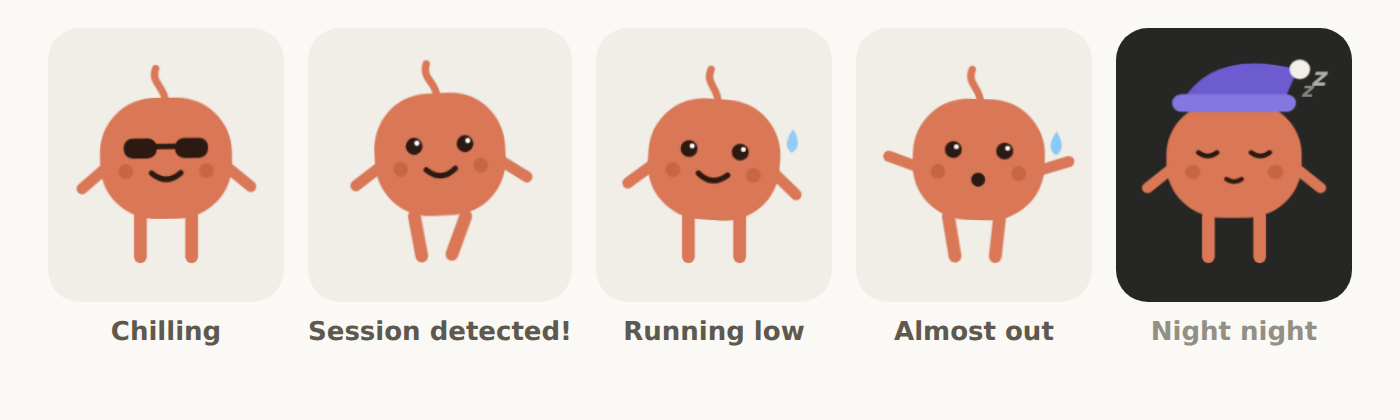
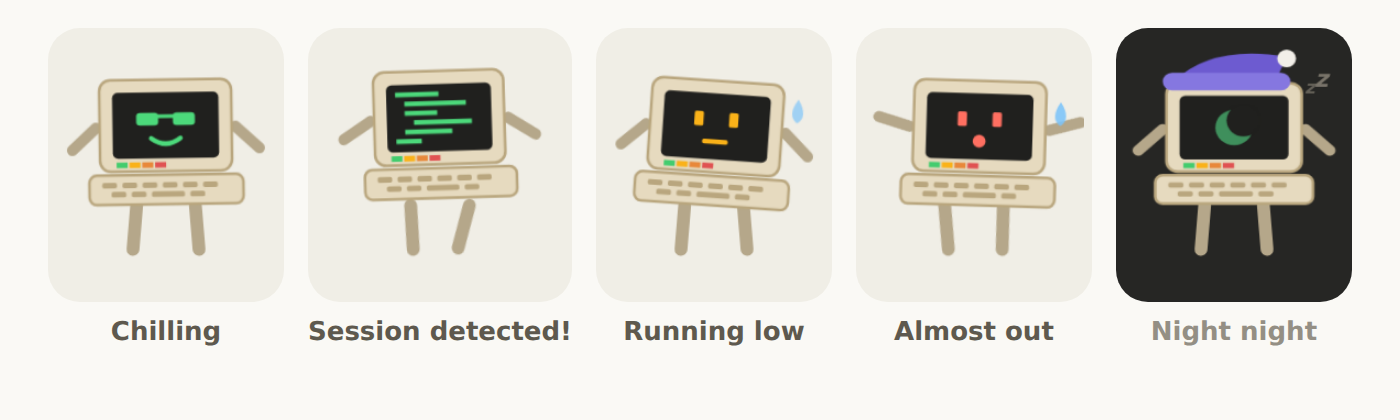
Redesign Pip as a retro computer that dances, codes, and sleeps
Pip is now a beige retro machine (CRT monitor + keyboard wedge with a
rainbow stripe chip) whose screen carries the expression: green
phosphor face normally, sunglasses screensaver when idle, typing code
lines with a blinking cursor while dancing during an active session,
amber flat-mouth when running low, red o-mouth when almost out, and a
crescent moon under a nightcap at night. Screen color is driven by a
single --phos CSS variable per mood. Screenshots regenerated.

Claude-Session: https://claude.ai/code/session_01QXLb7tKiL1U64pKbud6Y9g

diff --git a/app/web/index.html b/app/web/index.html
@@ -11,58 +11,93 @@
 <main class="wrap">
 
   <header class="top">
-    <!-- Pip: ClaudeTrackerPi's own little mascot -->
+    <!-- Pip: a little retro computer (dances, codes, sleeps) -->
     <div id="mascot" class="mascot mood-happy" aria-hidden="true">
       <svg viewBox="0 0 120 132" width="100" height="110">
-        <g class="m-legs" stroke="#d97757" stroke-width="7" stroke-linecap="round">
-          <line class="m-leg-l" x1="46" y1="94" x2="46" y2="116"/>
-          <line class="m-leg-r" x1="74" y1="94" x2="74" y2="116"/>
+        <defs>
+          <clipPath id="screen-clip">
+            <rect x="31" y="27" width="58" height="36" rx="3"/>
+          </clipPath>
+        </defs>
+        <g class="m-legs" stroke="#b5a78a" stroke-width="7" stroke-linecap="round">
+          <line class="m-leg-l" x1="44" y1="88" x2="42" y2="112"/>
+          <line class="m-leg-r" x1="76" y1="88" x2="78" y2="112"/>
         </g>
         <g class="m-body">
-          <path class="m-antenna" d="M60 32 C60 24 52 22 55 14" fill="none"
-                stroke="#d97757" stroke-width="4" stroke-linecap="round"/>
-          <rect x="24" y="30" width="72" height="66" rx="30" fill="#d97757"/>
-          <g class="m-arms" stroke="#d97757" stroke-width="6" stroke-linecap="round">
-            <line class="m-arm-l" x1="27" y1="68" x2="14" y2="79"/>
-            <line class="m-arm-r" x1="93" y1="68" x2="106" y2="79"/>
+          <g class="m-arms" stroke="#b5a78a" stroke-width="6" stroke-linecap="round">
+            <line class="m-arm-l" x1="22" y1="46" x2="9" y2="58"/>
+            <line class="m-arm-r" x1="98" y1="46" x2="111" y2="58"/>
+          </g>
+          <!-- monitor -->
+          <rect x="24" y="20" width="72" height="50" rx="6"
+                fill="#e6dabf" stroke="#b9a67e" stroke-width="1.5"/>
+          <rect x="31" y="27" width="58" height="36" rx="3" fill="#20201e"/>
+          <!-- rainbow stripe chip -->
+          <g>
+            <rect x="33" y="65" width="6" height="3" fill="#43cc6e"/>
+            <rect x="40" y="65" width="6" height="3" fill="#fab219"/>
+            <rect x="47" y="65" width="6" height="3" fill="#e8883a"/>
+            <rect x="54" y="65" width="6" height="3" fill="#e05252"/>
+          </g>
+          <!-- keyboard base -->
+          <rect x="18" y="72" width="84" height="16" rx="4"
+                fill="#e6dabf" stroke="#b9a67e" stroke-width="1.5"/>
+          <g fill="#b9a67e">
+            <rect x="25" y="76" width="8" height="3" rx="1"/>
+            <rect x="36" y="76" width="8" height="3" rx="1"/>
+            <rect x="47" y="76" width="8" height="3" rx="1"/>
+            <rect x="58" y="76" width="8" height="3" rx="1"/>
+            <rect x="69" y="76" width="8" height="3" rx="1"/>
+            <rect x="80" y="76" width="8" height="3" rx="1"/>
+            <rect x="30" y="81" width="8" height="3" rx="1"/>
+            <rect x="41" y="81" width="8" height="3" rx="1"/>
+            <rect x="52" y="81" width="18" height="3" rx="1"/>
+            <rect x="73" y="81" width="8" height="3" rx="1"/>
+          </g>
+          <!-- screen content (green phosphor; amber/red via mood) -->
+          <g clip-path="url(#screen-clip)">
+            <g class="m-face">
+              <g class="m-eyes-open m-phos">
+                <rect x="48" y="37" width="5" height="8" rx="1"/>
+                <rect x="67" y="37" width="5" height="8" rx="1"/>
+              </g>
+              <g class="m-shades m-phos">
+                <rect x="44" y="38" width="12" height="7" rx="2"/>
+                <rect x="64" y="38" width="12" height="7" rx="2"/>
+                <rect x="55" y="39" width="10" height="2"/>
+              </g>
+              <path class="m-mouth-smile m-phos-s" d="M52 52 Q60 58 68 52"
+                    fill="none" stroke-width="2.5" stroke-linecap="round"/>
+              <rect class="m-mouth-flat m-phos" x="53" y="52" width="14"
+                    height="2.5" rx="1"/>
+              <circle class="m-mouth-o m-phos" cx="60" cy="53" r="3.5"/>
+            </g>
+            <g class="m-code m-phos">
+              <rect class="m-line m-l1" x="36" y="31" width="24" height="2.5"/>
+              <rect class="m-line m-l2" x="41" y="36" width="34" height="2.5"/>
+              <rect class="m-line m-l3" x="41" y="41" width="18" height="2.5"/>
+              <rect class="m-line m-l4" x="46" y="46" width="32" height="2.5"/>
+              <rect class="m-line m-l5" x="41" y="51" width="26" height="2.5"/>
+              <rect class="m-line m-l6" x="36" y="56" width="14" height="2.5"/>
+              <rect class="m-cursor" x="53" y="56" width="5" height="3"/>
+            </g>
+            <g class="m-moon">
+              <circle cx="60" cy="45" r="10" fill="#3f8f5c"/>
+              <circle cx="65" cy="41" r="9" fill="#20201e"/>
+            </g>
           </g>
           <g class="m-cap">
-            <path d="M32 31 Q48 0 94 12 L86 31 Z" fill="#6d5bd0"/>
-            <circle cx="95" cy="12" r="5.5" fill="#f2efe9"/>
-            <rect x="27" y="26" width="66" height="10" rx="5" fill="#8577e0"/>
+            <path d="M28 19 Q48 -2 88 5 L82 19 Z" fill="#6d5bd0"/>
+            <circle cx="88" cy="6" r="5" fill="#f2efe9"/>
+            <rect x="22" y="14" width="68" height="10" rx="5" fill="#8577e0"/>
           </g>
-          <g class="m-face">
-            <g class="m-eyes-open">
-              <circle cx="46" cy="58" r="4.6" fill="#2c1a12"/>
-              <circle cx="74" cy="58" r="4.6" fill="#2c1a12"/>
-              <circle cx="47.6" cy="56.4" r="1.4" fill="#fff"/>
-              <circle cx="75.6" cy="56.4" r="1.4" fill="#fff"/>
-            </g>
-            <g class="m-eyes-closed" fill="none" stroke="#2c1a12"
-               stroke-width="2.5" stroke-linecap="round">
-              <path d="M41 59 Q46 63 51 59"/>
-              <path d="M69 59 Q74 63 79 59"/>
-            </g>
-            <g class="m-shades" fill="#2c1a12">
-              <rect x="37" y="52" width="18" height="11" rx="5"/>
-              <rect x="65" y="52" width="18" height="11" rx="5"/>
-              <rect x="53" y="55" width="14" height="3" rx="1.5"/>
-            </g>
-            <circle cx="38" cy="70" r="4" fill="#b4552e" opacity="0.5"/>
-            <circle cx="82" cy="70" r="4" fill="#b4552e" opacity="0.5"/>
-            <path class="m-mouth-smile" d="M52 71 Q60 78 68 71" fill="none"
-                  stroke="#2c1a12" stroke-width="3" stroke-linecap="round"/>
-            <circle class="m-mouth-o" cx="60" cy="74" r="3.8" fill="#2c1a12"/>
-            <path class="m-mouth-sleep" d="M56 74 Q60 77 64 74" fill="none"
-                  stroke="#2c1a12" stroke-width="2.5" stroke-linecap="round"/>
-          </g>
-          <path class="m-sweat" d="M102 42 q6 9 0 13 q-6 -4 0 -13" fill="#7cc4fa"/>
+          <path class="m-sweat" d="M104 26 q6 9 0 13 q-6 -4 0 -13" fill="#7cc4fa"/>
         </g>
-        <g class="m-zzz" fill="#c3c2b7" font-family="system-ui, sans-serif"
+        <g class="m-zzz" fill="#8a8478" font-family="system-ui, sans-serif"
            font-weight="700" font-style="italic">
-          <text class="m-z m-z1" x="94" y="36" font-size="11">z</text>
-          <text class="m-z m-z2" x="101" y="25" font-size="14">z</text>
-          <text class="m-z m-z3" x="109" y="14" font-size="17">z</text>
+          <text class="m-z m-z1" x="96" y="34" font-size="10">z</text>
+          <text class="m-z m-z2" x="103" y="26" font-size="13">z</text>
+          <text class="m-z m-z3" x="110" y="19" font-size="15">z</text>
         </g>
       </svg>
     </div>

diff --git a/app/web/style.css b/app/web/style.css
@@ -209,33 +209,50 @@ body {
 
 /* ---------- mascot ---------- */
 
-.mascot { flex: none; line-height: 0; }
+.mascot { flex: none; line-height: 0; --phos: #4cd97b; }
 
-.m-body { transform-origin: 60px 63px; }
-.m-arm-l { transform-origin: 27px 68px; }
-.m-arm-r { transform-origin: 93px 68px; }
-.m-leg-l { transform-origin: 46px 94px; }
-.m-leg-r { transform-origin: 74px 94px; }
-.m-sweat, .m-mouth-o, .m-mouth-sleep, .m-eyes-closed, .m-cap, .m-z,
-.m-shades { opacity: 0; }
+.m-body { transform-origin: 60px 60px; }
+.m-arm-l { transform-origin: 22px 46px; }
+.m-arm-r { transform-origin: 98px 46px; }
+.m-leg-l { transform-origin: 44px 88px; }
+.m-leg-r { transform-origin: 76px 88px; }
 
-/* chill (no session running): sunglasses, slow groove */
+/* everything on the screen glows in the current phosphor color */
+.m-phos { fill: var(--phos); }
+.m-phos-s { stroke: var(--phos); }
+.m-sweat, .m-mouth-o, .m-mouth-flat, .m-shades, .m-cap, .m-z,
+.m-code, .m-moon { opacity: 0; }
+
+/* chill (no session running): sunglasses screensaver, slow groove */
 .mood-chill .m-body   { animation: groove 4s ease-in-out infinite; }
 .mood-chill .m-shades { opacity: 1; }
 .mood-chill .m-eyes-open { opacity: 0; }
 
-/* happy (session detected): full dance */
+/* happy (session detected): dances while code types across the screen */
 .mood-happy .m-body   { animation: bounce 0.9s ease-in-out infinite; }
 .mood-happy .m-arm-l  { animation: wave-l 0.9s ease-in-out infinite; }
 .mood-happy .m-arm-r  { animation: wave-r 0.9s ease-in-out infinite; }
 .mood-happy .m-leg-l  { animation: kick-l 0.9s ease-in-out infinite; }
 .mood-happy .m-leg-r  { animation: kick-r 0.9s ease-in-out infinite; }
+.mood-happy .m-face   { opacity: 0; }
+.mood-happy .m-code   { opacity: 1; }
+.mood-happy .m-line   { animation: typing 3.2s linear infinite; }
+.mood-happy .m-l2 { animation-delay: 0.4s; }
+.mood-happy .m-l3 { animation-delay: 0.8s; }
+.mood-happy .m-l4 { animation-delay: 1.2s; }
+.mood-happy .m-l5 { animation-delay: 1.6s; }
+.mood-happy .m-l6 { animation-delay: 2.0s; }
+.mood-happy .m-cursor { animation: cursorblink 1s steps(1) infinite; }
 
-/* worried: slower sway + sweat drop */
+/* worried: amber screen, flat mouth, sway + sweat drop */
+.mood-worried { --phos: #fab219; }
 .mood-worried .m-body  { animation: sway 1.6s ease-in-out infinite; }
 .mood-worried .m-sweat { opacity: 1; animation: drip 1.6s ease-in infinite; }
+.mood-worried .m-mouth-smile { opacity: 0; }
+.mood-worried .m-mouth-flat  { opacity: 1; }
 
-/* panic: shake, o-mouth, sweat */
+/* panic: red screen, o-mouth, shake, sweat */
+.mood-panic { --phos: #ff6f61; }
 .mood-panic .m-body  { animation: shake 0.35s linear infinite; }
 .mood-panic .m-sweat { opacity: 1; animation: drip 0.8s ease-in infinite; }
 .mood-panic .m-mouth-smile { opacity: 0; }
@@ -245,14 +262,11 @@ body {
 .mood-panic .m-leg-l { animation: kick-l 0.35s linear infinite; }
 .mood-panic .m-leg-r { animation: kick-r 0.35s linear infinite; }
 
-/* asleep (at night): nightcap, closed eyes, slow breathing, floating Zzz */
-.mood-sleep .m-body    { animation: breathe 4s ease-in-out infinite; }
-.mood-sleep .m-cap     { opacity: 1; }
-.mood-sleep .m-antenna { opacity: 0; }
-.mood-sleep .m-eyes-open   { opacity: 0; }
-.mood-sleep .m-eyes-closed { opacity: 1; }
-.mood-sleep .m-mouth-smile { opacity: 0; }
-.mood-sleep .m-mouth-sleep { opacity: 1; }
+/* asleep (at night): nightcap, moon on screen, slow breathing, Zzz */
+.mood-sleep .m-body { animation: breathe 4s ease-in-out infinite; }
+.mood-sleep .m-cap  { opacity: 1; }
+.mood-sleep .m-face { opacity: 0; }
+.mood-sleep .m-moon { opacity: 1; }
 .mood-sleep .m-z1 { animation: zfloat 4s linear infinite; }
 .mood-sleep .m-z2 { animation: zfloat 4s linear 1.3s infinite; }
 .mood-sleep .m-z3 { animation: zfloat 4s linear 2.6s infinite; }
@@ -300,6 +314,16 @@ body {
   0%   { transform: translateY(0); opacity: 0; }
   30%  { opacity: 1; }
   100% { transform: translateY(14px); opacity: 0; }
+}
+@keyframes typing {
+  0%   { opacity: 0; }
+  6%   { opacity: 1; }
+  88%  { opacity: 1; }
+  94%, 100% { opacity: 0; }
+}
+@keyframes cursorblink {
+  0%, 100% { opacity: 1; }
+  50%      { opacity: 0; }
 }
 @keyframes groove {
   0%, 100% { transform: rotate(-2.5deg) translateY(0); }

diff --git a/README.md b/README.md
@@ -20,10 +20,12 @@ used right now — no terminal, no menubar, no estimating.
 - **A clock**, and Claude's own look: the warm cream claude.ai theme by day,
   its dark theme at night (on a configurable schedule)
 - **PiSugar battery level** with a charging indicator
-- **Pip.** The tracker's little mascot chills in sunglasses between
-  sessions, starts dancing the moment it detects you're actually using
-  Claude, sweats when you're running low, panics when you're almost out,
-  and puts on a nightcap and sleeps at night.
+- **Pip.** The tracker's mascot: a little retro computer. Between sessions
+  it chills with a sunglasses screensaver; the moment it detects you're
+  actually using Claude it starts dancing while code flies across its
+  screen. The screen phosphor turns amber when you're running low and red
+  when you're almost out, and at night it puts on a nightcap and sleeps
+  with a crescent moon on screen.
 
 <p align="center">
   <img src="docs/screenshots/moods.png" width="720" alt="Pip's five moods: chilling, dancing, running low, almost out, and asleep">